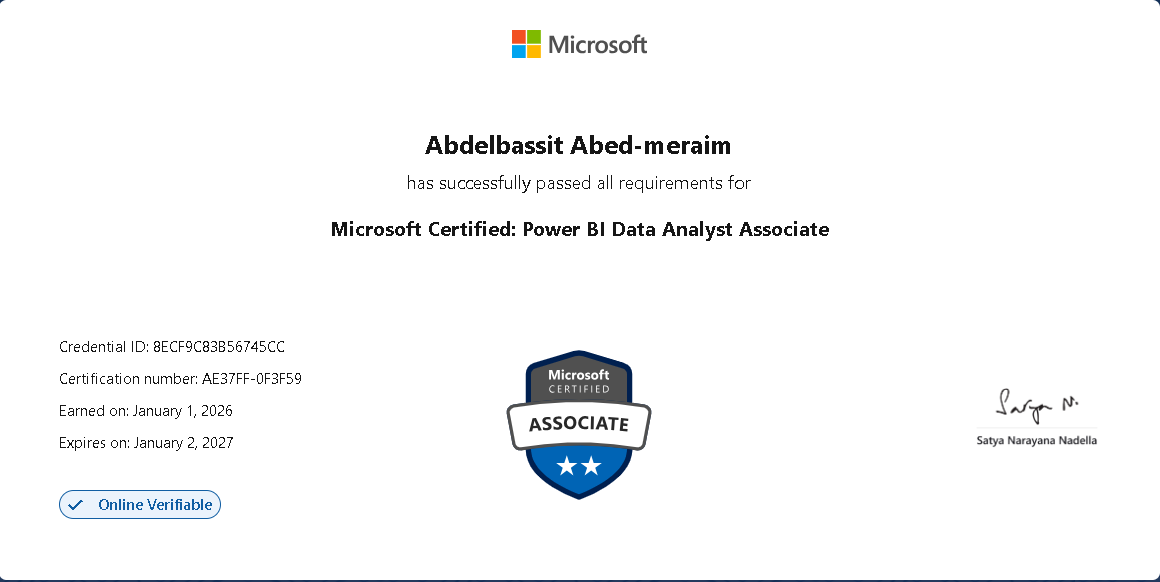
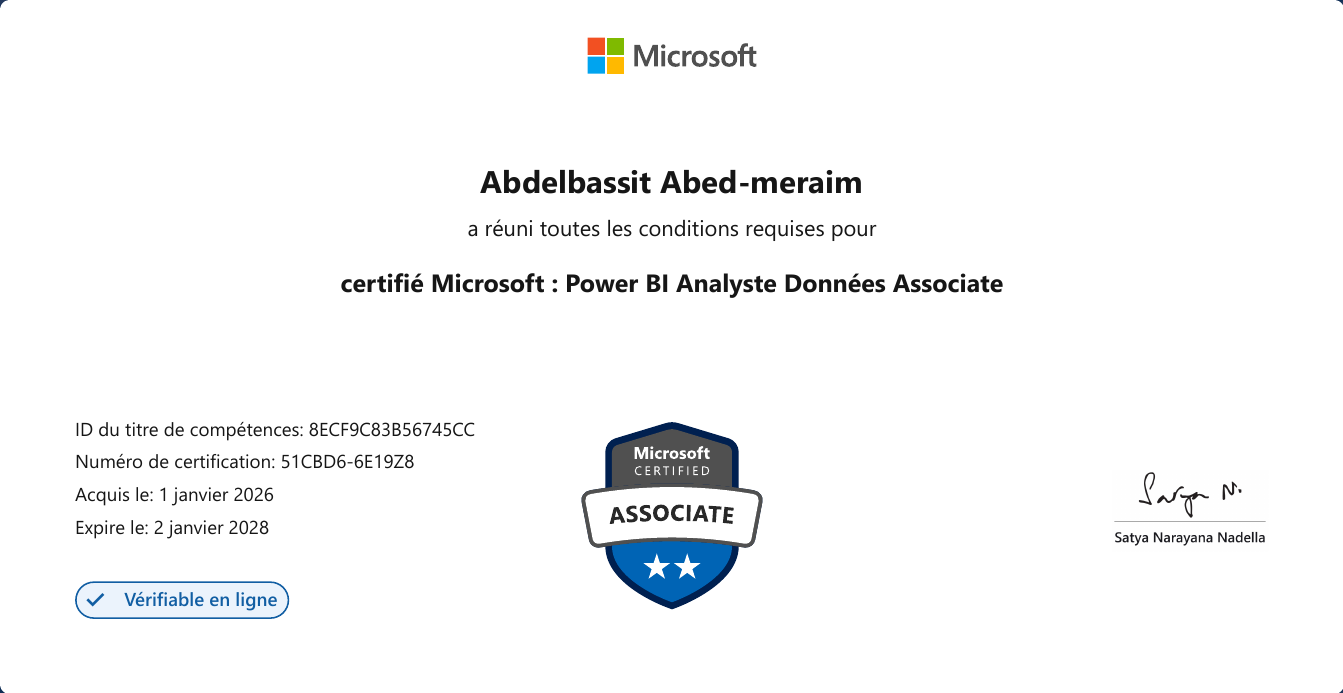
Renew Microsoft PL-300 certification link and badge

diff --git a/components/education-section.tsx b/components/education-section.tsx
@@ -33,7 +33,7 @@ const certifications = [
     name: "Microsoft PL-300: Power BI Data Analyst Associate",
     status: "Certified",
     image: "/images/certs/microsoft-pl300.png",
-    link: "https://learn.microsoft.com/api/credentials/share/en-us/AbdelbassitAbedmeraim-5770/8ECF9C83B56745CC?sharingId=E0A78BC6F66991DC",
+    link: "https://learn.microsoft.com/api/credentials/share/fr-fr/AbdelbassitAbedmeraim-5770/8ECF9C83B56745CC?sharingId=3D32194CFCEE77A7",
     date: "January 2026",
   },
   {
